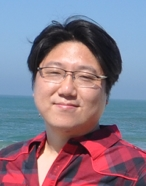
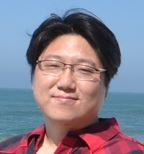
3rd Edit #3

diff --git a/index.html b/index.html
@@ -1213,7 +1213,7 @@
         <section class="col-md-3 card-wrapper profile-card-wrapper affix">
             <div class="card profile-card"><span class="profile-pic-container"><div class="profile-pic"><img
                     class="media-object img-circle center-block" data-src="holder.js/100x100" alt="YongSung Woo"
-                    src="https://s.gravatar.com/avatar/9acdb04e603c1cac2b893190f6dd5911?s=100&amp;r=pg&amp;d=mm"
+                    src="YongSung.jpg"
                     itemprop="image"></div><div class="name-and-profession text-center"><h3 itemprop="name"><b>YongSung Woo</b></h3><h5
                     class="text-muted" itemprop="jobTitle">Project Manager</h5></div></span>
                 <hr>
@@ -1233,12 +1233,18 @@
                 </div>
                 <hr>
                 <div class="social-links text-center">
-                    <div><a class="fs-2x social-link link-twitter icon-twitter" href="//twitter.com/"
+                    <div><a class="fs-2x social-link link-facebook icon-facebook" 
+                            href="https://www.facebook.com/yongsung.woo.7"
                             target="_blank" data-toggle="tooltip" title=""
-                            data-original-title="YongSung Woo on Twitter"></a><a
-                            class="fs-2x social-link link-soundcloud icon-soundcloud"
-                            href="https://soundcloud.com/" target="_blank" data-toggle="tooltip" title=""
-                            data-original-title="YongSung Woo on SoundCloud"></a></div>
+                            data-original-title="Facebook">
+                        </a>     
+                        </a>
+                        <a class="fs-2x social-link link-github icon-github"
+                            href="https://github.com/wpulnbada" 
+                            target="_blank" data-toggle="tooltip" title=""
+                            data-original-title="github">        
+                        </a>
+                    </div>
                 </div>
             </div>
         </section>
